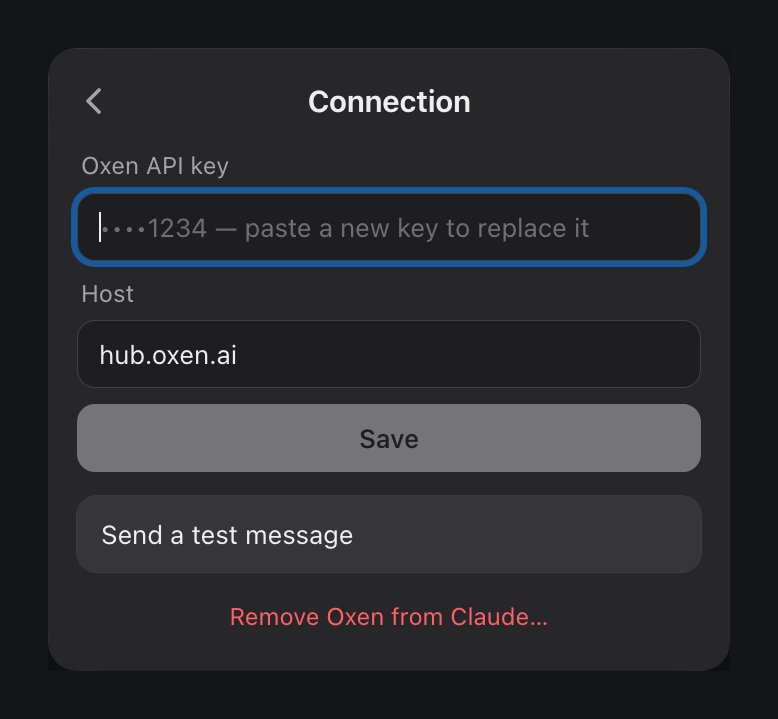
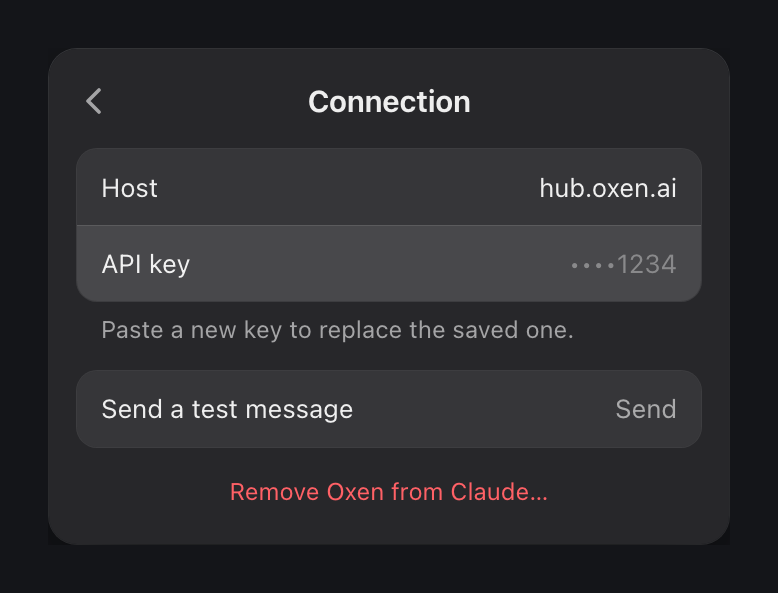
Make connection settings read like the list they come from
The screen was two boxed fields and a large Save button that sat
disabled most of the time, with the key's instructions squeezed into
its placeholder and a test result that wrapped its row. Host and API
key are now rows edited in place, Save appears in the header only when
there is something to save, and one caption says what will happen.

Also corrects the Remove confirmation, which said the key would be
forgotten when it is kept.

diff --git a/src/views/Connection.tsx b/src/views/Connection.tsx
@@ -1,9 +1,9 @@
 import { useState } from "react";
 
-import { hostLabel, type Api, type Status } from "../lib/api";
+import { hostLabel, hostOf, type Api, type Status } from "../lib/api";
 import { useAction } from "../lib/useAction";
 import { useSavedKey } from "../lib/useSavedKey";
-import { Check, Field, Notice, Spinner, SubHeader } from "../components/ui";
+import { Check, Notice, RowField, Spinner, SubHeader } from "../components/ui";
 
 /** Which field a row on the home screen leads to. */
 export type ConnectionFocus = "key" | "host";
@@ -36,56 +36,77 @@ export function Connection(props: { api: Api; status: Status; focus: ConnectionF
     if (dirty && !save.busy) void save.run();
   };
 
+  const testedHost = hostOf(status.baseUrl);
+  const caption =
+    saved && newKey === ""
+      ? `Found your Oxen key ending in ${saved} for ${newHost}.`
+      : newHost !== "" && newKey === ""
+        ? `Your current key will be used for ${newHost}.`
+        : status.keyHint
+          ? "Paste a new key to replace the saved one."
+          : "Paste your Oxen API key.";
+
   return (
     <main className="screen sub">
-      <SubHeader title="Connection" onBack={onDone} />
+      <SubHeader
+        title="Connection"
+        onBack={onDone}
+        action={
+          dirty ? (
+            <button type="button" className="text-link strong" disabled={save.busy} onClick={submit}>
+              {save.busy ? <Spinner /> : "Save"}
+            </button>
+          ) : null
+        }
+      />
 
-      <div className="stack">
-        <Field
-          label="Oxen API key"
-          showLabel
-          secret
-          autoFocus={focus === "key"}
-          placeholder={status.keyHint ? `••••${status.keyHint} — paste a new key to replace it` : "Oxen API key"}
-          value={key}
-          onChange={setKey}
-          onEnter={submit}
-        />
-        <Field
-          label="Host"
-          showLabel
-          placeholder="hub.oxen.ai"
-          autoFocus={focus === "host"}
-          value={host}
-          onChange={setHost}
-          onEnter={submit}
-        />
-        {saved && newKey === "" && (
-          <Notice tone="info">{`Found your Oxen key ending in ${saved} for ${newHost}.`}</Notice>
-        )}
+      <div>
+        <div className="group">
+          <RowField
+            label="Host"
+            placeholder="hub.oxen.ai"
+            autoFocus={focus === "host"}
+            value={host}
+            onChange={setHost}
+            onEnter={submit}
+          />
+          <RowField
+            label="API key"
+            secret
+            autoFocus={focus === "key"}
+            placeholder={status.keyHint ? `••••${status.keyHint}` : "Not set"}
+            value={key}
+            onChange={setKey}
+            onEnter={submit}
+          />
+        </div>
+        <p className="caption" role="status">
+          {caption}
+        </p>
         {save.error && <Notice>{save.error}</Notice>}
-        <button type="button" className="button primary" disabled={!dirty || save.busy} onClick={submit}>
-          {save.busy ? (
-            <>
-              <Spinner /> Checking…
-            </>
-          ) : (
-            "Save"
-          )}
-        </button>
       </div>
 
       <div className="group">
-        <button type="button" className="row row-link" disabled={test.busy} onClick={() => void test.run()}>
+        <button
+          type="button"
+          className="row row-link"
+          aria-label="Send a test message"
+          disabled={test.busy}
+          onClick={() => void test.run()}
+        >
           <span className="row-label">Send a test message</span>
-          {test.busy && <Spinner />}
-          {answeredBy && !test.busy && (
+          {test.busy ? (
+            <Spinner />
+          ) : answeredBy ? (
             <span className="row-value good">
               <Check />
-              <span>{answeredBy} answered</span>
+              <span>Answered</span>
             </span>
+          ) : (
+            <span className="row-value">Send</span>
           )}
         </button>
+        {answeredBy && !test.busy && <p className="row-help">{`${answeredBy} replied through ${testedHost}.`}</p>}
         {test.error && <p className="row-help bad">{test.error}</p>}
       </div>
 
@@ -93,7 +114,7 @@ export function Connection(props: { api: Api; status: Status; focus: ConnectionF
         {confirming ? (
           <>
             <p className="detail">
-              Claude goes back to how it was before Hitch, and your key is forgotten.
+              Claude goes back to how it was before Hitch. Your Oxen key stays on this Mac.
             </p>
             <div className="danger-actions">
               <button type="button" className="button secondary compact" onClick={() => setConfirming(false)}>

diff --git a/src/App.test.tsx b/src/App.test.tsx
@@ -334,9 +334,10 @@ describe("connection settings", () => {
 
   it("replaces the key", async () => {
     const { user, calls } = await openConnection();
-    expect(screen.getByRole("button", { name: "Save" })).toBeDisabled();
+    // Nothing to save until something changes.
+    expect(screen.queryByRole("button", { name: "Save" })).not.toBeInTheDocument();
 
-    await user.type(screen.getByLabelText("Oxen API key"), "new_key_9876");
+    await user.type(screen.getByLabelText("API key"), "new_key_9876");
     await user.click(screen.getByRole("button", { name: "Save" }));
 
     await waitFor(() => expect(calls).toContain("connect:new_key_9876:"));
@@ -360,7 +361,7 @@ describe("connection settings", () => {
 
   it("opens on the key from the API key row", async () => {
     await openConnection();
-    expect(screen.getByLabelText("Oxen API key")).toHaveFocus();
+    expect(screen.getByLabelText("API key")).toHaveFocus();
   });
 
   it("opens on the host from a Host row on the home screen", async () => {
@@ -390,7 +391,18 @@ describe("connection settings", () => {
   it("sends a test message", async () => {
     const { user } = await openConnection();
     await user.click(screen.getByRole("button", { name: "Send a test message" }));
-    expect(await screen.findByText("claude-opus-5-5 answered")).toBeVisible();
+    expect(await screen.findByText("Answered")).toBeVisible();
+    expect(screen.getByText("claude-opus-5-5 replied through hub.oxen.ai.")).toBeVisible();
+  });
+
+  it("offers Save only while there is a change to save", async () => {
+    const { user } = await openConnection();
+    const host = screen.getByLabelText("Host");
+    await user.type(host, "x");
+    expect(screen.getByRole("button", { name: "Save" })).toBeEnabled();
+
+    await user.type(host, "{Backspace}");
+    expect(screen.queryByRole("button", { name: "Save" })).not.toBeInTheDocument();
   });
 
   it("removes Oxen from Claude only after confirming", async () => {

diff --git a/src/components/ui.tsx b/src/components/ui.tsx
@@ -131,6 +131,40 @@ export function Field(props: {
   );
 }
 
+/**
+ * A field that is a row in a group: its name on the left, its value typed on the right.
+ * Used where settings are edited in place, so the screen reads like the list it came from.
+ */
+export function RowField(props: {
+  label: string;
+  value: string;
+  onChange: (value: string) => void;
+  placeholder?: string;
+  secret?: boolean;
+  autoFocus?: boolean;
+  onEnter?: () => void;
+}) {
+  return (
+    <label className="row row-field">
+      <span className="row-label">{props.label}</span>
+      <input
+        type={props.secret ? "password" : "text"}
+        value={props.value}
+        placeholder={props.placeholder}
+        autoFocus={props.autoFocus}
+        autoComplete="off"
+        autoCorrect="off"
+        autoCapitalize="off"
+        spellCheck={false}
+        onChange={(event) => props.onChange(event.target.value)}
+        onKeyDown={(event) => {
+          if (event.key === "Enter") props.onEnter?.();
+        }}
+      />
+    </label>
+  );
+}
+
 export function Notice(props: { tone?: "error" | "info"; children: ReactNode }) {
   const tone = props.tone ?? "error";
   return (

diff --git a/src/styles.css b/src/styles.css
@@ -416,6 +416,42 @@ p {
   color: var(--red);
 }
 
+/* A setting edited in place: the whole row is the field. */
+.row-field {
+  cursor: text;
+  transition: background 0.12s;
+}
+.row-field:focus-within {
+  background: var(--fill);
+}
+.row-field input {
+  flex: 1;
+  min-width: 0;
+  height: 20px;
+  padding: 0;
+  border: 0;
+  font: inherit;
+  color: var(--text);
+  text-align: right;
+  background: transparent;
+  outline: none;
+  user-select: text;
+  -webkit-user-select: text;
+}
+.row-field input::placeholder {
+  color: var(--text-3);
+}
+
+/* One quiet line under a group, saying what the group does right now. */
+.caption {
+  padding: 6px 12px 0;
+  font-size: 12px;
+  color: var(--text-2);
+}
+.caption + .notice {
+  margin-top: 8px;
+}
+
 .chevron {
   flex: none;
   color: var(--text-3);

diff --git a/docs/03_decisions.md b/docs/03_decisions.md
@@ -277,3 +277,17 @@ signed. Decided by Greg.
   `NSWindow` directly.
 - This cause was found by reading the code, not reproduced. Treat it as fixed only once the
   reporter confirms.
+
+## 2026-11-19 — Connection settings are edited in place
+
+- Host and API key are rows in a group, like the home screen they are opened from, with the
+  value typed on the right. The boxed fields and their labels are gone.
+- **Save** lives in the header and only appears while there is a change to save, the same place
+  Models puts **Done**. Before, a large disabled button sat in the middle of the screen whenever
+  nothing had changed, which is most of the time.
+- One caption under the group says what will happen: which key a new host will use, or that
+  pasting replaces the saved key. That guidance used to be crammed into the key's placeholder.
+- A test message answers with "Answered" in the row and the model and host on a line beneath, so
+  a long model name can no longer wrap the row.
+- The Remove confirmation said the key would be forgotten. It is not: the key stays in the Oxen
+  settings file because the Oxen CLI uses it. The text now says so.
